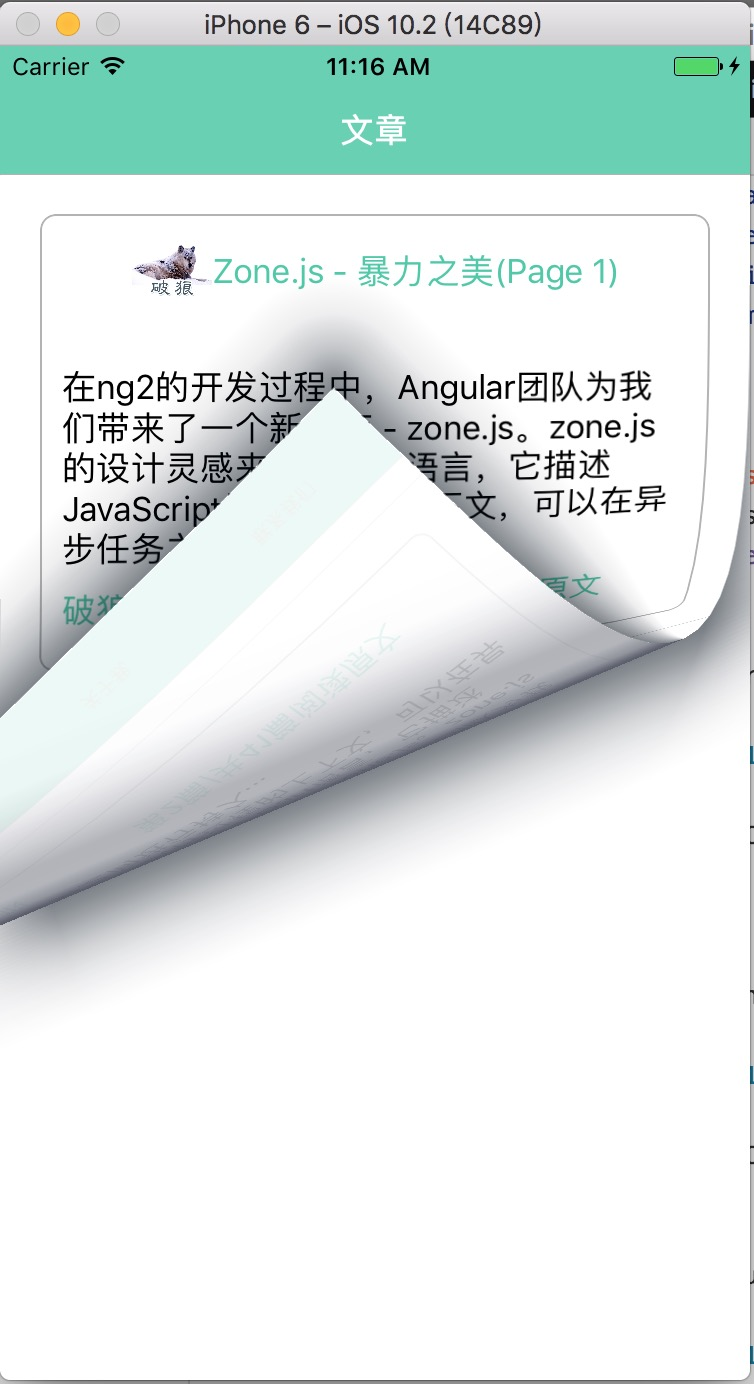
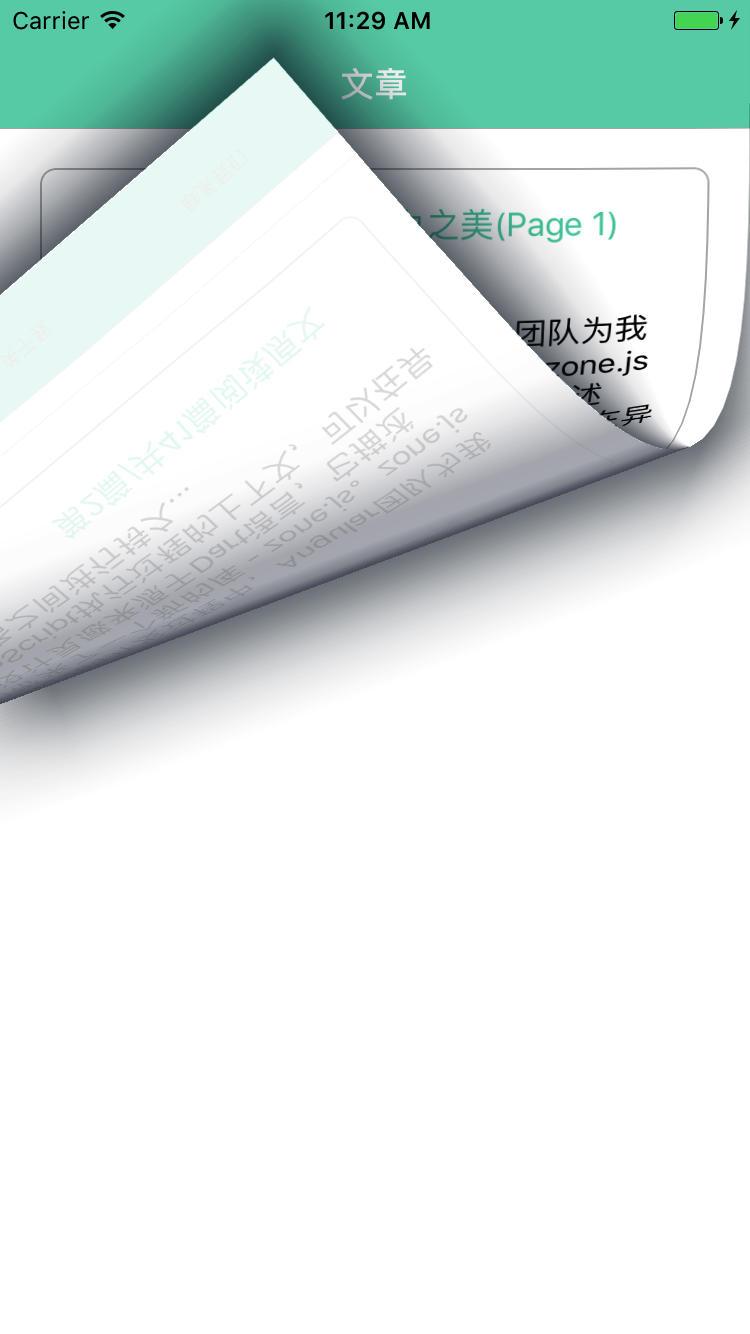
[feature] readme about animation

diff --git a/app/blog/home/blog-home.component.ts b/app/blog/home/blog-home.component.ts
@@ -21,7 +21,7 @@ export class BlogHomeComponent {
         this.routerExtensions.navigate([`/blog/${url}`], {
             transition: {
                 name: transitionName,
-                duration: 600,
+                duration: 3000,
                 curve: "linear"
             }
         });
